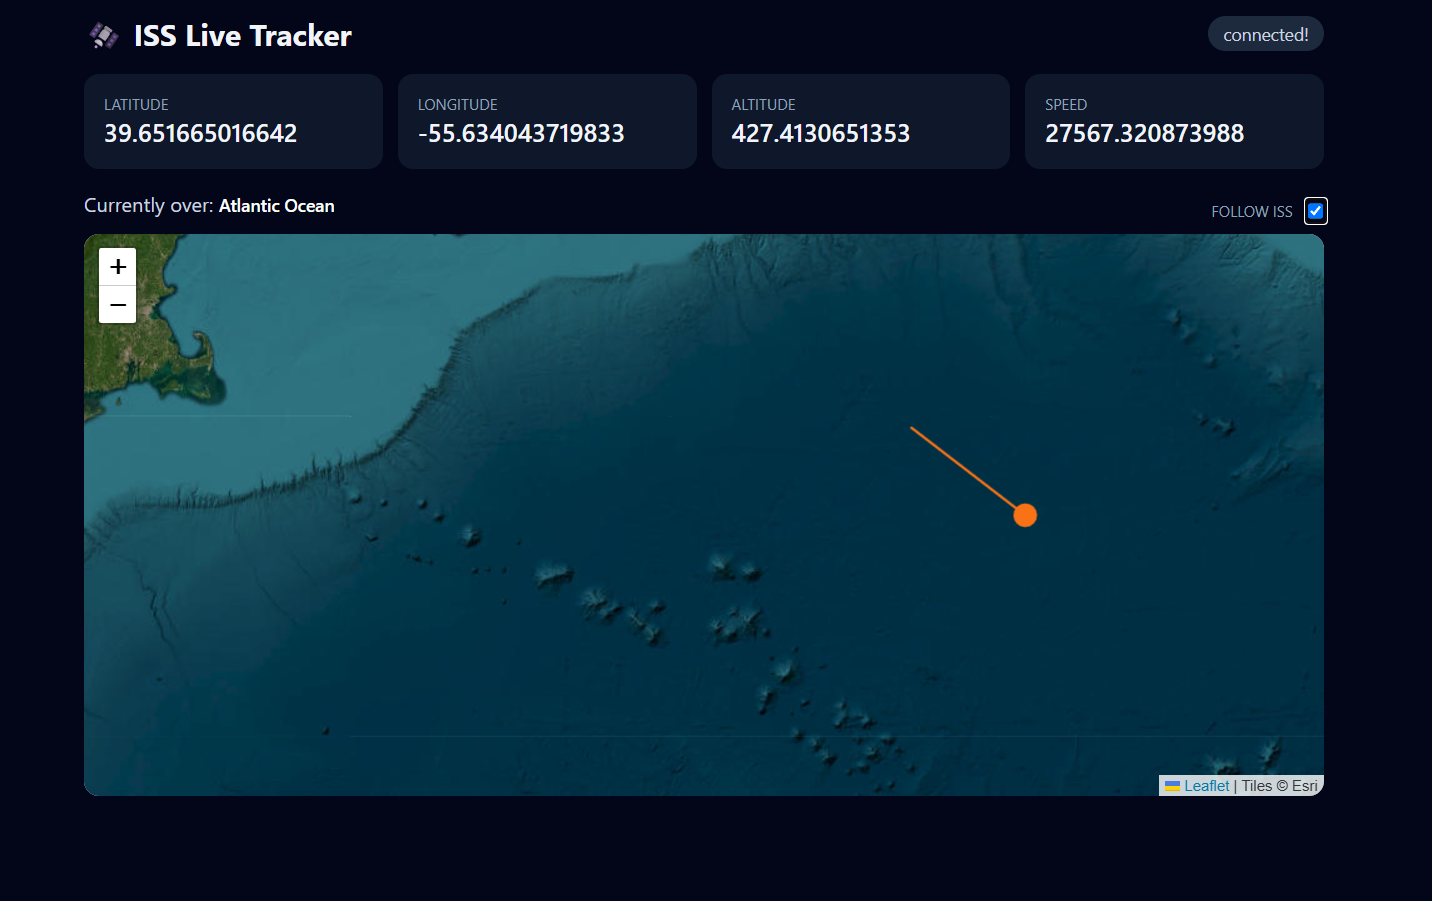
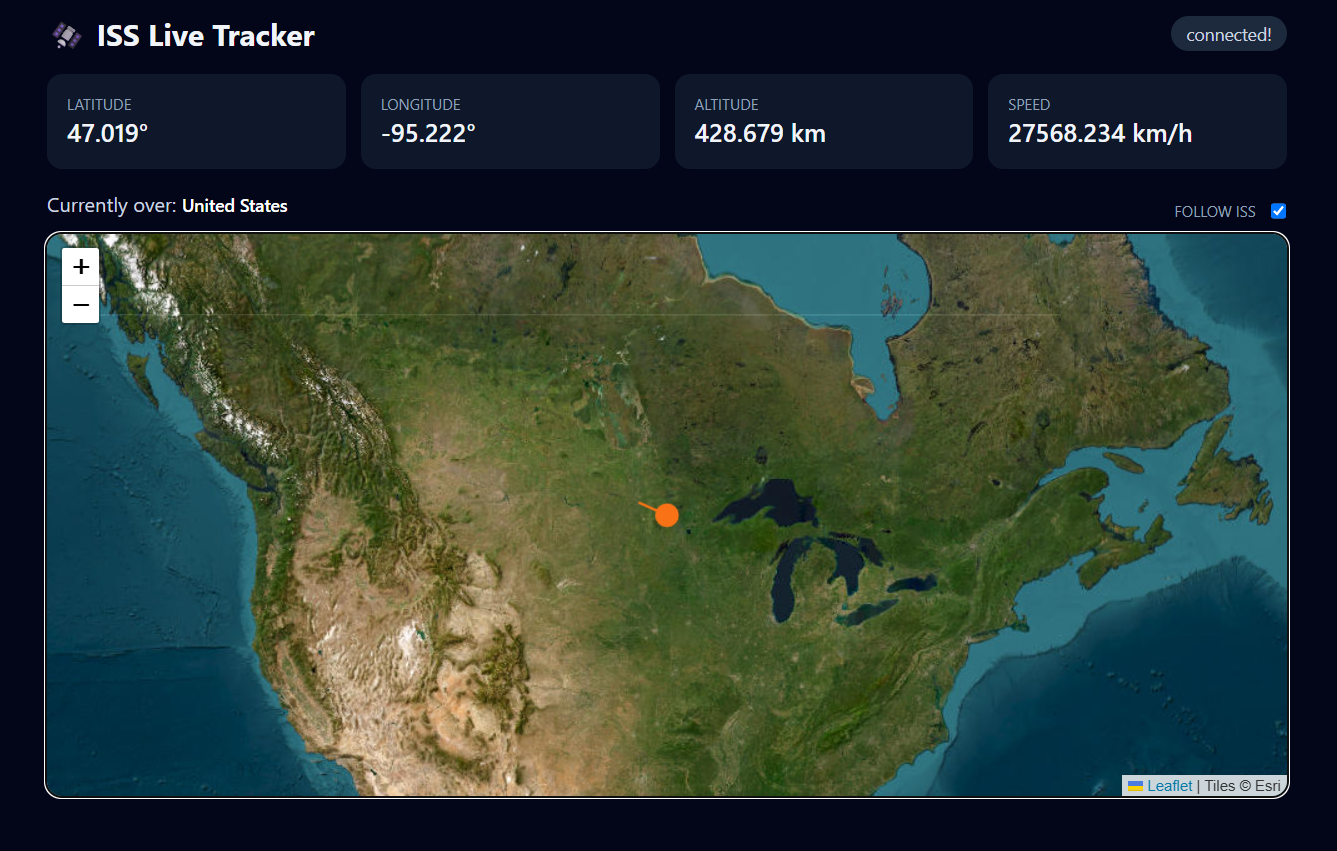
updated live screenshot and readme

diff --git a/docs/README.md b/docs/README.md
@@ -1,76 +1,43 @@
 # 🛰 ISS Live Tracker
 
-A real-time web app that tracks the International Space Station as it orbits the Earth. The station moves at roughly 28,000 km/h, and this dashboard shows its live position, altitude, and speed on an interactive map, along with the country or ocean it is flying over right now.
+A real-time dashboard that tracks the International Space Station as it orbits the Earth, showing its live position, altitude, and speed on an interactive satellite map, plus the country it is flying over.
 
 ![ISS Live Tracker screenshot](screenshot.png)
 
-**Live demo:** https://g0dwarri0r.github.io/iss-tracker/
+[![Live Demo](https://img.shields.io/badge/Live_Demo-View_Project-f97316?style=for-the-badge&logo=github&logoColor=white)](https://g0dwarri0r.github.io/iss-tracker/)
 
 ## Features
 
-- Live position, altitude, and speed readouts that refresh every few seconds
-- Interactive map that follows the ISS and zooms in on the tracker
-- A growing orange trail showing the path the station has travelled
-- "Currently over" label that turns coordinates into a place name (or "Open ocean" over water)
-- Live / offline status indicator that recovers on its own if the connection drops
-- Responsive dark UI built with Tailwind CSS
+- Live latitude, longitude, altitude, and speed, refreshed every few seconds
+- Interactive satellite map with a marker and a trail showing the ISS path
+- "Follow ISS" toggle to keep the map centered on the station
+- "Currently over" label showing the country, or open ocean
+- Connection status indicator that recovers automatically after a failed request
 
-## APIs and services used
+## APIs and Services
 
-| Service | What it is used for | Key needed? |
-|---|---|---|
-| [Where the ISS at? API](https://wheretheiss.at/w/developer) | Live latitude, longitude, altitude, and velocity of the ISS | No |
-| [BigDataCloud Reverse Geocoding API](https://www.bigdatacloud.com/free-api/free-reverse-geocode-to-city-api) | Converts the ISS coordinates into a city or country name | No |
-| [Leaflet](https://leafletjs.com/) | Interactive map library (markers, polylines, panning, zooming) | No |
-| [Esri World Imagery](https://www.arcgis.com/home/item.html?id=10df2279f9684e4a9f6a7f08febac2a9) | Satellite map tiles drawn under the markers | No |
-| [Tailwind CSS](https://tailwindcss.com/) | Utility-first styling, loaded from a CDN | No |
+| Service | Used for |
+|---|---|
+| [Where the ISS at? API](https://wheretheiss.at/w/developer) | Live ISS position and speed, and the country lookup for given coordinates |
+| [Leaflet](https://leafletjs.com/) | Interactive map, marker, and trail |
+| [Esri World Imagery](https://www.arcgis.com/home/item.html?id=10df2279f9684e4a9f6a7f08febac2a9) | Satellite map tiles |
+| [Tailwind CSS](https://tailwindcss.com/) | Styling |
 
-## JavaScript concepts used
+No API keys are required.
 
-**Asynchronous JavaScript**
-- `fetch()` to request data from REST APIs
-- Promises and `async/await` to write asynchronous code that reads top to bottom
-- A `setTimeout` that updates the app continuously without overlapping requests
+## Key JavaScript Concepts
 
-**Error handling**
-- Checking `response.ok` and `throw`ing errors when a request fails
-- `try/catch` placed inside the polling loop, so one failed request does not stop the tracker
-- Fatal errors (no position data) versus nice-to-have errors (place name lookup fails quietly)
+- **`fetch` with `async/await`**: requesting data from the APIs and writing asynchronous code that reads top to bottom
+- **`try/catch` with `throw`**: checking `response.ok` and handling failed requests without crashing the app
+- **Polling loop with a custom `sleep()`**: a `while (true)` loop that awaits a Promise wrapped around `setTimeout`, so each update finishes before the next starts
+- **DOM manipulation**: `querySelector` and `textContent` to update the readouts live
+- **`Intl.DisplayNames`**: a built-in browser API that converts country codes like `IN` into names like `India`
+- **Leaflet methods**: `setLatLng`, `addLatLng`, and `panTo` to move the marker, grow the trail, and follow the ISS
 
-**DOM manipulation**
-- `document.querySelector` to select elements
-- Updating text with `textContent` and updating classes for the live/offline status pill
+## Run Locally
 
-**Language features**
-- Separating code into small functions: fetching data, rendering data, and controlling the loop
+```bash
+git clone https://github.com/G0dWarri0r/iss-tracker.git
+```
 
-**Leaflet map API**
-- Creating a map once, then updating it: `L.map`, `L.tileLayer`, `L.circleMarker`, `L.polyline`
-- Moving objects with `setLatLng`, growing the trail with `addLatLng`, and following the ISS with `panTo`
-
-## How it works
-
-1. On page load, the map, marker, and trail are created **once**.
-2. A loop calls the ISS API, then updates the readouts, moves the marker, extends the trail, and re-centers the map.
-3. Every few seconds, the coordinates are sent to the reverse geocoding API to get a place name.
-4. If a request fails, the status pill turns red and the loop keeps trying until the connection returns.
-
-
-## Known limitations
-
-- When the ISS crosses the ±180° longitude line, the trail can draw a straight line across the map. Splitting the trail into separate segments at that point would fix it.
-- Public APIs are rate limited, so the app polls gently instead of requesting data as fast as possible.
-
-## Ideas for the future
-
-- A chart of altitude and speed over time
-- Show when the ISS will next pass over the user's location
-- Show the day/night boundary on the map
-
-## What I learned
-
-This project was built as a hands-on way to learn DOM manipulation, `async/await`, `fetch`, and working with real-world APIs, including handling empty results, failed requests, and rate limits.
-
-## Credits
-
-Data from Where the ISS at? and BigDataCloud. Map tiles from Esri. Map library by Leaflet. Built by Agam Tiwari.
+Open `index.html` in a browser, or serve it with the Live Server extension in VS Code.
